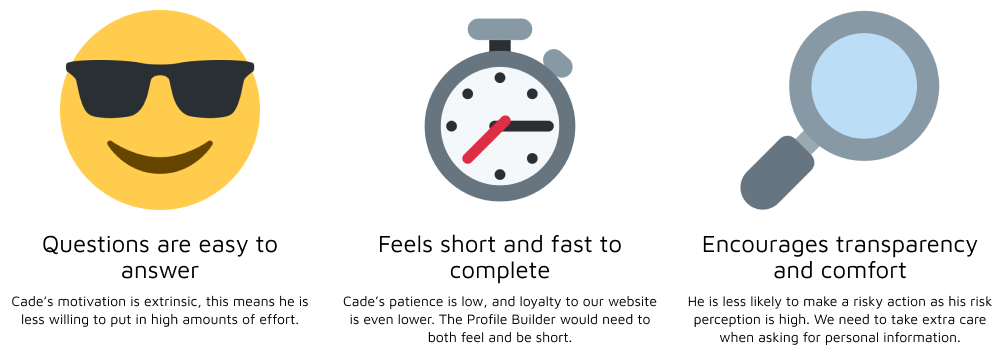
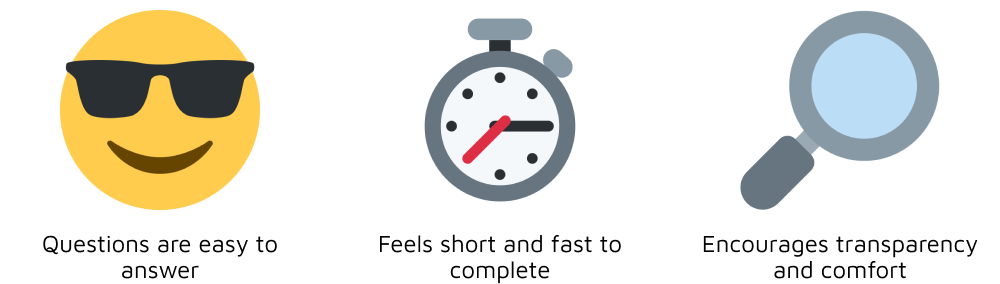
Updated HB Case Study

diff --git a/pages/honeybeehub-profilebuilder.html b/pages/honeybeehub-profilebuilder.html
@@ -85,27 +85,18 @@
 
 <!--Research-->
 
-<h3>Research</h3>
 <h1>Discovering the problem</h1>
 <p>From a recent survey on user experience, we found that 30% of our users were unsatisfied
      with our website. A teammate interviewed a few of these users, while I examined their 
-     survey responses, and together we found that <span class="bold">49% of these unsatisfied users had 
-        difficulty finding research studies.</span></p>
+     survey responses, and together we found the following.</p>
 
-
-<h2>Understanding our user</h2> 
-<p>From this research we noted that our target audience was mostly:
     <ul class="insightcont">
-        <li>Extrinsically motivated - they participated to gain monetary compensation</li>
-        <li>Main behaviour was browsing our home page instead of searching for specific topics</li>
+        <li>49% of unsatisfied users had difficulty finding research studies</li>
+
+        <li>These users were extrinsically motivated - their main goal was to gain compensation</li>
+        <li>Their main behaviour was browsing our home page instead of searching for specific topics</li>
     </ul>
 
-<a target="_blank" href="images/HBProfileBuilder/Persona.png">
-
-    <p><img class="imgcontainer" src="images/HBProfileBuilder/Persona.png">
-</a>
-
-<h2>Understanding the main issue</h2>
 <p>What makes research studies hard to find for the browsing experience?
 
     <a target="_blank" href="images/HBProfileBuilder/Homepage Comparison.png">
@@ -117,8 +108,9 @@
 <p>I visited other platforms that offered health, research, or entertainment content to see
      how they offered personalized services.
      <ul class="insightcont">
-        <li>Extrinsically motivated - they participated to gain monetary compensation</li>
-        <li>Main behaviour was browsing our home page instead of searching for specific topics</li>
+        <li>Other platforms used a survey upon sign up to collect user information</li>
+        <li>This information would be used to give them a more personalized experience
+        </li>
     </ul>
 
     <a target="_blank" href="images/HBProfileBuilder/Competitive Benchmark Summary.png">
@@ -126,21 +118,15 @@
         <p><img class="imgcontainer" src="images/HBProfileBuilder/Competitive Benchmark Summary.png">
 </a>
 
-<h1>Addressing the solution in 2 parts</h1>
 <p>From my market research, I found that a profile builder would fit the bill. I then 
-    divided the profile builder into 2 parts.
-    
-    <a target="_blank" href="images/HBProfileBuilder/Profile Builder Breakdown.png">
-
-        <p><img class="imgcontainer" src="images/HBProfileBuilder/Profile Builder Breakdown.png">
-</a>
+    divided the profile builder into 2 parts, the questions to ask and the visual design.
+    </p>
 
 
-<h1>Part 1: Planning the Questions and Answers</h2>
-
+<h1>Part 1: Planning the Questions and Answers</h1>
     <h2>Planning the Questions</h2>
         <p>Honeybee is unique in that we not only need personal interest information,
-            but also a lot of demographic information to adequately filter out research studies.
+            but also a lot of demographic information to filter out research studies.
 
         <p>I looked at existing studies on Honeybee, SickKids Children’s Hospital,
             research papers, and many other research study boards to see what criteria was
@@ -150,16 +136,15 @@
 
                 <p><img class="imgcontainer" src="images/HBProfileBuilder/Intake Criteria Graph.png">
             </a>
+        
+            <p>I drafted the questions based on these criteria into a question flow</p>
 
-        <p class=bold>Question flow</p>
             <a target="_blank" href="images/HBProfileBuilder/Questions only flow one.png">
 
                 <p><img class="imgcontainer" src="images/HBProfileBuilder/Questions only flow one.png">
             </a>
 
 <h2>Planning the Answers</h2>
-
-<p>How can I include and present all possible answers without overwhelming the user?
 
 <p>Since the questions are multiple choice, I needed to figure out all answer options for each question.
      I had 2 main considerations here.</p>
@@ -169,56 +154,43 @@
              avoid the use of the answer option, “other”</li>
     </ul>
 
-<h2>Spotlight: Representing Physiological Health Information</h2>
-
-<p>I looked at medical intake charts, personalized health care websites,
+<p>For physiological health answers, I looked at medical intake charts, personalized health care websites,
      surveys, and other resources for inclusivity to better understand the possible answers
       to include.
 
-<p>After a brainstorming session with my manager, we decided on a “body” approach where
-     we’d present each answer option as a specific part of the body, and cover the entire
-      human body.
+<p>We found that the best approach was to present each body part as a health category, as opposed to naming all the possible health conditions.
 
 <a target="_blank" href="images/HBProfileBuilder/Medical Examples.png">
 
         <p><img class="imgcontainer" src="images/HBProfileBuilder/Medical Examples.png">
 </a>
 
-<p class="bold">Pros
-<ul class="insightcont">
-    <li>Inclusive - this would include all physical health conditions</li>
-    <li>Minimal number of answer options and avoid overwhelming users</li>
-</ul>
-
-<p class="bold">Cons
-    <ul class="insightcont">
-        <li>Users may be looking for their specific condition name at first </li>
-    </ul>
-
-<h1>Reviewing the question flow</h1>
-
-<h2>Iteration 1</h2>
+<p>The question flow with answers included.</p>
 
 <a target="_blank" href="images/HBProfileBuilder/Question Flow One.png">
 
     <p><img class="imgcontainer" src="images/HBProfileBuilder/Question Flow One.png">
 </a>
 
-<p class="bold">Insights
+<h2>Reviewing the question flow</h2>
+
+
+
+<p class="bold">Initial Feedback
 <ul class="insightcont">
     <li>Felt long with 4 different sections</li>
-    <li>Questions about children could be too invasive for a signup survey, causing people to leave early</li>
+    <li>Questions about children felt too invasive for a signup survey</li>
 
 </ul>
 
-<h2>Final Iteration</h2>
+<h3>Final Iteration</h3>
 
 <a target="_blank" href="images/HBProfileBuilder/Question Flow Final.png">
 
     <p><img class="imgcontainer" src="images/HBProfileBuilder/Question Flow Final.png">
 </a>
 
-<p class="bold">Insights
+<p class="bold">Key Design Decisions
 <ul class="insightcont">
     <li>Only the bare minimum of questions are asked</li>
     <li>Removed any less mandatory, highly invasive questions</li>
@@ -228,13 +200,9 @@
 
 <h1>Part 2: Designing the Profile Builder</h1>
 
-<a target="_blank" href="images/HBProfileBuilder/Cades Mindset.png">
+<h2>Design principles</h2>
 
-        <p><img class="imgcontainer" src="images/HBProfileBuilder/Cades Mindset.png">
-</a>
-
-<p>Considering this, I decided on the following conditions for the design of the profile builder:
-
+<p>Because our target audience is extrinsically motivated, I decided on the following design principles.</p>
 <a target="_blank" href="images/HBProfileBuilder/Considerations Horizontal.png">
 
         <p><img class="imgcontainer" src="images/HBProfileBuilder/Considerations Horizontal.png">
@@ -242,36 +210,14 @@
 
 <h2>😎 Questions are easy to answer</h2>
 
-<p>We have 2 different question types. Some questions are straight forward whereas others require more thought. How do we make some questions go smoothly and quickly, and encourage more effort on others?
-
-<h2>Multiple Select Questions</h2>
+<h2>Questions with multiple answers</h2>
 
 <a target="_blank" href="images/HBProfileBuilder/Multi select.gif">
 
     <p><img class="imgcontainer" src="images/HBProfileBuilder/Multi select.gif">
 </a>
 
-<h4>How can we encourage users to select more answers?</h4>
-
-<p>Questions that involve multiple selections require more thought compared to single select questions. How do we encourage our users to look at more options and consider them?
-
-<h2>The inspiration</h2>
-
-<p><img class="imgcontainer" src="images/HBProfileBuilder/multi select inspiration.png" /></p>
-
-<p>I pulled ideas from Spotify, Dribbble, and Youtube. Here, the behaviour is likely to look for something relevant and select it. This is the exact motivation that we want answering our multi-select questions.
-
-
-<p class="bold">Insights
-<ul class="insightcont">
-    <li>Images invite the user to look and see, whereas a lot of text is often ignored</li>
-    <li>Image is usually looked at first to capture interest and identify what the piece of media is about</li>
-    <li>Text information/titles are usually looked at next to give further context</li>
-    <li>An exception: visual hierarchy can be established based on location of text in image, if text is near the top, may read it first</li>
-
-</ul>
-
-<p>The key was to encourage our users to spend more time looking at every option and selecting them, as opposed to beelining for the minimum needed and continuing on.
+<p>The goal with these questions is to encourage our users to select more answers.</p>
 
     <a target="_blank" href="images/HBProfileBuilder/multi select focus pic.png">
 
@@ -286,32 +232,26 @@
     <li>Vibrant and consistent selection colors to elicit more positive affect when you select an option </li>
 </ul>
 
-<h2>Singular Select Questions</h2>
+<h2>Questions with one answer</h2>
 
 <a target="_blank" href="images/HBProfileBuilder/single select.gif">
 
     <p><img class="imgcontainer" src="images/HBProfileBuilder/single select.gif">
 </a>
 
-<h4>How to make these questions the easiest and fastest to answer?</h4>
-
+<p>I wanted to make these questions as fast and easy-to-answer as possible.</p>
 <p class="bold">Key Design Decisions
 <ul class="insightcont">
-    <li>Use common language that they would expect/are looking for</li>
+    <li>Use common language that they would expect</li>
     <li>Simplistic design with no extra material to be processed</li>
-    <li>Text to help clarify the categories</li>
     <li>Order responses such that the most common ones are at the top</li>
 </ul>
 
 <h2>⏱ Feels short and fast to complete</h2>
 
-<p>Not only did we want our profile builder to be objectively as short as possible, but also to be perceived as such.
-
 <h2>Hot Keys</h2>
 
 <p>I added a hot key option, where pressing space bar would function as if clicking the “Next” button
-
-<p>The “Next” button would have a prompt beside it, telling users to “press spacebar”
 
 <a target="_blank" href="images/HBProfileBuilder/hotkey next.png">
 
@@ -321,7 +261,6 @@
 <p class="bold">Pros
 <ul class="insightcont">
     <li>The entire survey could be done from one hand position, without moving either hand</li>
-    <li>Simplistic design with no extra material to be processed</li>
     <li>The mouse would not need to travel long distances to the “Next” button, decreasing time and effort required</li>
 </ul>
 
@@ -332,31 +271,32 @@
 
 <p>To accommodate for this con, I decided to not display the “press spacebar” prompt in multiple select questions.
 
-<h2>Feelings of accomplishment throughout</h2>
+<h2>Breaking it up into sections</h2>
 
-<p>I broke up the profile builder into 3 sections, breaking one big task into 3 mini tasks.
 
     <a target="_blank" href="images/HBProfileBuilder/Question Sections.png">
 
         <p><img class="imgcontainer" src="images/HBProfileBuilder/Question Sections.png">
 </a>
 
+<p>I broke up the profile builder into 3 sections to increase motivation within the users.
+
 <p class="bold">Key Design Decisions
 <ul class="insightcont">
-    <li>The section with the least amount of questions is in the middle, making it very easy to complete up to section 2 / 3.</li>
-    <li>Users would be more likely to complete the Profile Builder, as they’ve made sizeable progress (2 / 3 sections) and wouldn’t want to see it go to waste</li>
+    <li>The section with the least amount of questions is in the middle, making it easy to complete up to section 2 / 3</li>
+    <li>Users would likely complete the builder after section 2, as they'd only have one section left</li>
 </ul>
 
-<h2>Visual progress that feels impactful</h2>
+<h2>A satisfying and informative progress bar</h2>
 
 <a target="_blank" href="images/HBProfileBuilder/space hotkey.gif">
 
     <p><img class="imgcontainer" src="images/HBProfileBuilder/space hotkey.gif">
 </a>
 
-<p>Progress feels good! We wanted a progress bar that felt satisfying but was still informative of how much of the survey users  had left.
+<p>Progress feels good! I wanted a progress bar that maximized the feeling of productivity, while still being accurate in informing the user.
 
-<h2>Option 1</h2>
+<h3>Option 1</h3>
 
 <a target="_blank" href="images/HBProfileBuilder/Progress bar 2.gif">
 
@@ -377,7 +317,7 @@
     <li>User will likely notice the progress bar when it is not progressing (when they read the question/when eyes are at the top of the screen)</li>
 </ul>
 
-<h2>Option 2</h2>
+<h3>Option 2</h3>
 
 <a target="_blank" href="images/HBProfileBuilder/Progress bar 1.gif">
 
@@ -398,7 +338,7 @@
 
 </ul>
 
-<h2>Option 3</h2>
+<h3>Option 3 - Final Progress Bar</h3>
 
 <a target="_blank" href="images/HBProfileBuilder/Progress bar 3.gif">
 
@@ -419,30 +359,19 @@
 
 </ul>
 
-<p class="bold">Cons
-<ul class="insightcont">
-    <li>Users may not initially know what each individual progress bar represents</li>
-</ul>
-
-<p>I decided on Option 3 for the Progress Bar, as the pros are relevant and outweigh the cons. It it likely also, that once a question is answered the meaning of the different progress bars will be apparent.
-
 <h2>🔎 Transparency and comfort when giving personal information</h2>
 
-<p>Many of the questions in the profile builder are going to ask about sensitive topics. Like how Cade’s mindset indicated, how would we comfort and relieve the feelings of risk that may come with divulging this information?
 
-<h2>General privacy policy statements at the beginning of a section</h2>
+<h2>Addressing initial worries</h2>
 
 <a target="_blank" href="images/HBProfileBuilder/Health Section.png">
 
     <p><img class="imgcontainer" src="images/HBProfileBuilder/Health Section.png">
 </a>
 
-<p>Privacy policy statements are included before a section with sensitive questions. Users generally only seek this information once. If they are worried later about how their information is being used, repeating our privacy policy will likely not help. Instead we’d give more specific information on why questions are being asked.
-
-
-<p class="bold">Insights
+<p class="bold">Key Design Decisions
 <ul class="insightcont">
-    <li>General Privacy Policy statement is presented once at the beginning of the section to address general worries</li>
+    <li>General Privacy Policy statement is presented once at the beginning of the section to address general, initial worries</li>
 </ul>
 
 <h2>Personalized statements for specific questions</h2>
@@ -452,16 +381,17 @@
     <p><img class="imgcontainer" src="images/HBProfileBuilder/Info bubble.gif">
 </a>
 
-<p>I added “i” buttons beside sensitive questions to let users know how this specific information is used and why we are asking it, including the greater impact it has in research. Hopefully, to build some prosocial motivation and to introduce the capacity of our product as well.
+<p>I added clickable “i” buttons beside sensitive questions.
+
 
     <a target="_blank" href="images/HBProfileBuilder/info bubble focus.png">
 
         <p><img class="imgcontainer" src="images/HBProfileBuilder/info bubble focus.png">
 </a>
 
-<p class="bold">Pros
+<p class="bold">Key Design Decisions
 <ul class="insightcont">
-    <li>Info bubble appears beside sensitive questions to inform users how exactly that information will be used</li>
+    <li>Button text informs users how that specific information will be used</li>
     <li>Mentions its prosocial impact on the world to help introduce our product’s mission and build prosocial motivation</li>
 
 </ul>
